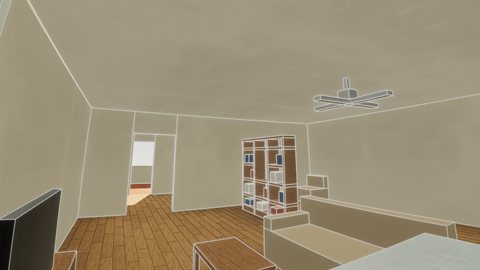
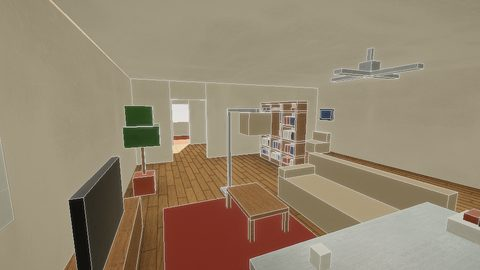
The House thumbnail shows the detail pass
assets/sim-thumbs/house.jpg re-shot on the cluttered House: from the
island's corner across the living room, the fig, arc lamp and rug in front
of the bookshelf, the back hall's door beyond. The framing is a named look
spot, houseThumb (sim.html?map=house&quality=high&look=houseThumb, UI
hidden, 960x540 scaled to 480x270 progressive JPEG).

diff --git a/sim-looks.js b/sim-looks.js
@@ -127,6 +127,11 @@ export const LOOK_SPOTS = {
   // the arch into the living room; from the kitchen over the island.
   houseEntry: { pos: [-12.25, 5.075, 15.575], target: [3.5, 3.5, 9.8] },
   houseKitchen: { pos: [30.1, 6.125, 17.5], target: [7.7, 3.15, 9.1] },
+  // The Fly chooser's House thumbnail (assets/sim-thumbs/house.jpg): from the
+  // island's corner across the living room, the fig, lamp and rug, the
+  // bookshelf and the back hall's door beyond. sim.html?map=house&quality=high
+  // &look=houseThumb, UI hidden, 960x540 scaled to 480x270.
+  houseThumb: { pos: [15.4, 6.3, 18.2], target: [-3.5, 3.5, 10.5] },
   builder: { pos: [0, 14, 0.1], target: [0, 0, 0] },
 };
 

diff --git a/sim.html b/sim.html
@@ -956,7 +956,7 @@ import {
   stepBattery, resolveDuctHit, stepPropwash, indoorDraft, combineDisturbance,
   emptyWake, tagGhost, ghostSamples, washLevelFromStr, washStrFromLevel,
 } from "./sim-whoop.js?v=8f4237f25211";
-import {createLooks,decorateGate,pulseGate,QUALITY_KEY,CROSSHAIR_KEY,loadCrosshairOn,saveCrosshairOn} from "./sim-looks.js?v=c20740d63b07";
+import {createLooks,decorateGate,pulseGate,QUALITY_KEY,CROSSHAIR_KEY,loadCrosshairOn,saveCrosshairOn} from "./sim-looks.js?v=8508cdaa5643";
 import {
   VIBES, vibeFor, resolveMapLighting, restyleCity, restyleLandmarks, decorateVibeGate, pulseCityGate, tickCityArt,
   decorateRigGate, pulseRigGate,
